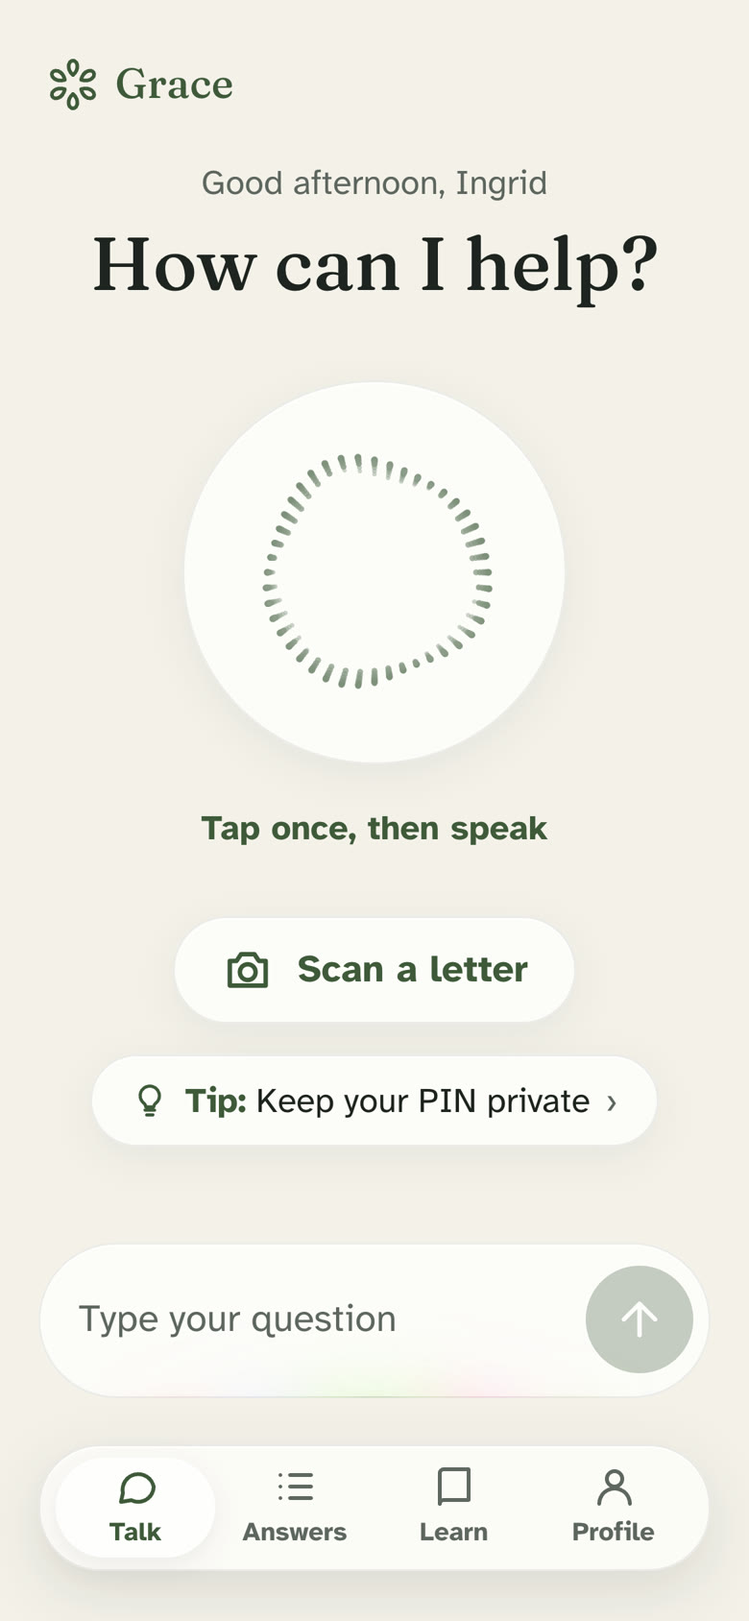
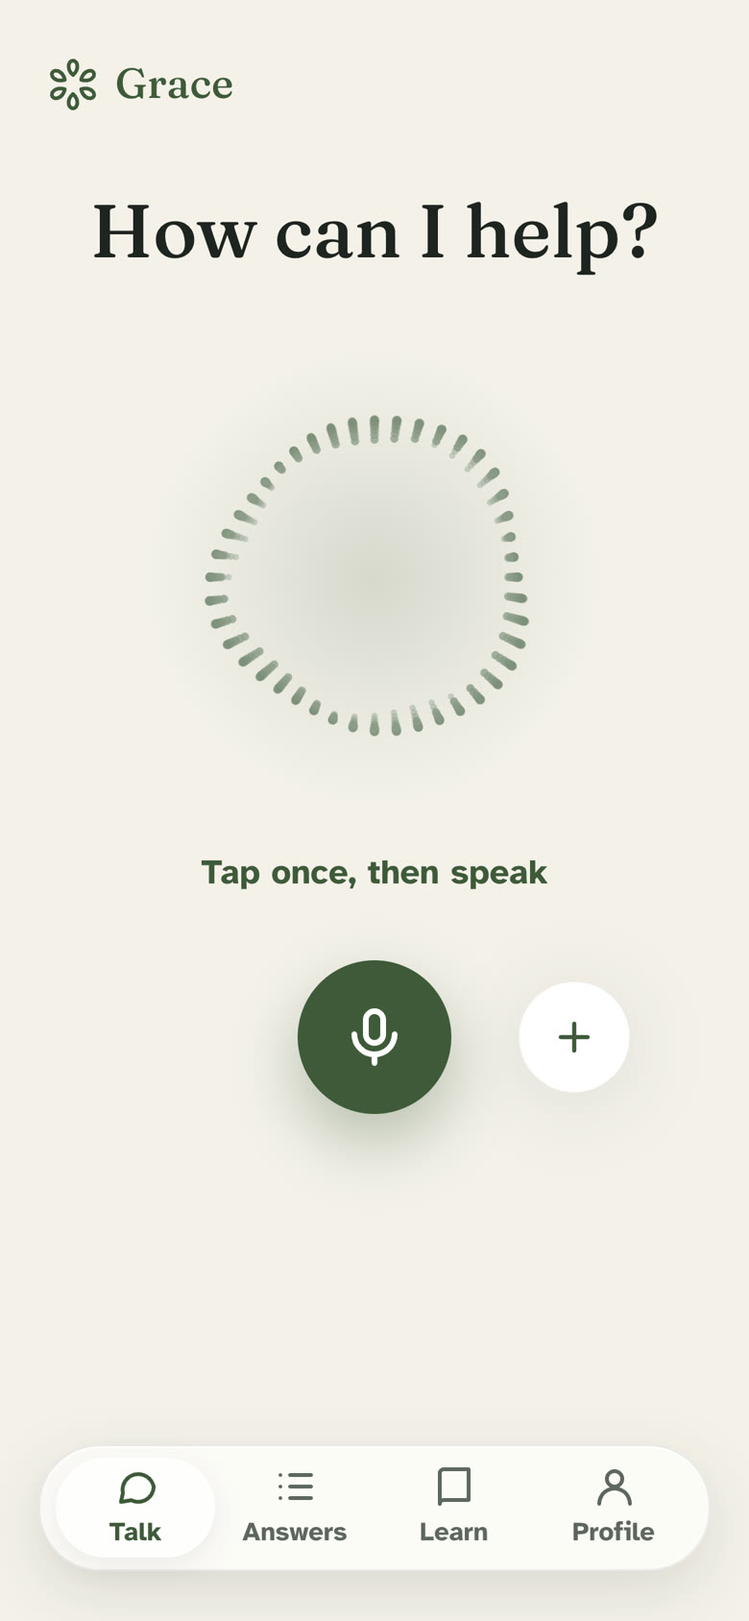
feat: iPhone 16 Pro style frame and the new listening screens in the demo video

diff --git a/video/landscape/index.html b/video/landscape/index.html
@@ -26,7 +26,7 @@
       <section id="kw1" class="clip scene" data-start="1.5" data-duration="1.5" data-track-index="1"><div class="center"><p class="kin"><span class="k ink">Ask</span> <span class="k grad-t">out</span> <span class="k grad-t">loud</span></p></div></section>
       <section id="kw2" class="clip scene" data-start="3" data-duration="1.5" data-track-index="1"><div class="center"><p class="kin"><span class="k ink">Any</span> <span class="k grad-t">message</span></p></div></section>
       <section id="kw3" class="clip scene" data-start="4.5" data-duration="1.5" data-track-index="1"><div class="center"><p class="kin"><span class="k grad-t">Instantly</span></p></div></section>
-      <section id="jt" class="clip scene" data-start="6" data-duration="2.5" data-track-index="1"><div class="split"><div class="cap"><p class="kin"><span class="k ink">Just</span> <span class="k grad-t">talk</span></p></div><div class="pw"><div class="phone" id="jt-phone"><img class="f0" src="../assets/shots/talk.jpg" alt="" /><div class="tap" style="left:50%;top:34%"><svg class="cursor" viewBox="0 0 32 32"><path d="M6 3l20 11-9 2.5L12 26z" fill="#1E2420" stroke="#fff" stroke-width="2" stroke-linejoin="round"/></svg><i class="ripple"></i></div></div></div></div></section>
+      <section id="jt" class="clip scene" data-start="6" data-duration="2.5" data-track-index="1"><div class="split"><div class="cap"><p class="kin"><span class="k ink">Just</span> <span class="k grad-t">talk</span></p></div><div class="pw"><div class="phone" id="jt-phone"><img class="f0" src="../assets/shots/talk.jpg" alt="" /><div class="tap" style="left:50%;top:64%"><svg class="cursor" viewBox="0 0 32 32"><path d="M6 3l20 11-9 2.5L12 26z" fill="#1E2420" stroke="#fff" stroke-width="2" stroke-linejoin="round"/></svg><i class="ripple"></i></div></div></div></div></section>
       <section id="tunnel" class="clip scene" data-start="8.5" data-duration="2.5" data-track-index="1"><div class="stage"><div class="walls"><div class="tphone" style="transform: translate(-50%, -50%) translate3d(-806.4px, 0, -200px) rotateY(70deg)"><img src="../assets/shots/talk.jpg" alt="" /></div><div class="tphone" style="transform: translate(-50%, -50%) translate3d(806.4px, 0, -700px) rotateY(-70deg)"><img src="../assets/shots/scam-card.jpg" alt="" /></div><div class="tphone" style="transform: translate(-50%, -50%) translate3d(0, -496.8px, -450px) rotateX(-70deg) rotateZ(90deg)"><img src="../assets/shots/scan-found.jpg" alt="" /></div><div class="tphone" style="transform: translate(-50%, -50%) translate3d(0, 496.8px, -950px) rotateX(70deg) rotateZ(90deg)"><img src="../assets/shots/learn.jpg" alt="" /></div><div class="tphone" style="transform: translate(-50%, -50%) translate3d(-806.4px, 0, -1100px) rotateY(70deg)"><img src="../assets/shots/tell-anna.jpg" alt="" /></div><div class="tphone" style="transform: translate(-50%, -50%) translate3d(806.4px, 0, -1600px) rotateY(-70deg)"><img src="../assets/shots/voice.jpg" alt="" /></div><div class="tphone" style="transform: translate(-50%, -50%) translate3d(0, -496.8px, -1350px) rotateX(-70deg) rotateZ(90deg)"><img src="../assets/shots/listen.jpg" alt="" /></div><div class="tphone" style="transform: translate(-50%, -50%) translate3d(0, 496.8px, -1850px) rotateX(70deg) rotateZ(90deg)"><img src="../assets/shots/skills.jpg" alt="" /></div></div></div><div class="center over"><p class="kin small"><span class="k ink">Letters.</span> <span class="k grad-t">Scams.</span> <span class="k ink">Doctors.</span></p></div></section>
       <section id="swoosh" class="clip scene" data-start="10.3" data-duration="1.7" data-track-index="1"><div class="blob"></div></section>
       <section id="prog" class="clip scene" data-start="12" data-duration="3" data-track-index="1"><div class="center"><div class="row"><p class="plabel">Checking the message</p><p class="pscore"><span class="num">0</span><span class="of">/100</span></p><div class="bar"><div class="fill"></div></div><p class="pnote">Scam check</p></div></div></section>
@@ -37,7 +37,7 @@
       <section id="pat" class="clip scene" data-start="27.5" data-duration="2.5" data-track-index="1"><div class="center"><p class="kin"><span class="k ink">Patient</span> <span class="k grad-t">with</span> <span class="k grad-t">you</span></p></div></section>
       <section id="watch" class="clip scene" data-start="30" data-duration="3" data-track-index="1"><div class="center"><p class="kin"><span class="k ink">Now</span> <span class="k grad-t">watch</span> <span class="k grad-t">it</span> <span class="k grad-t">work</span></p><p class="sub">Real app. Real Claude answers.</p></div></section>
       <section id="ts0" class="clip scene" data-start="33" data-duration="5.5" data-track-index="1"><div class="split test"><div class="cap"><p class="kick">Live test</p><p class="ttl">A calm welcome</p></div><div class="pw"><div class="phone"><img class="f0" src="../assets/shots/welcome.jpg" alt="" /><img class="f1" src="../assets/shots/talk.jpg" alt="" /><div class="tap" style="left:50%;top:88%"><svg class="cursor" viewBox="0 0 32 32"><path d="M6 3l20 11-9 2.5L12 26z" fill="#1E2420" stroke="#fff" stroke-width="2" stroke-linejoin="round"/></svg><i class="ripple"></i></div></div></div></div></section>
-      <section id="ts1" class="clip scene" data-start="38.5" data-duration="5.5" data-track-index="1"><div class="split test"><div class="cap"><p class="kick">Talk</p><p class="ttl">One big button</p></div><div class="pw"><div class="phone"><img class="f0" src="../assets/shots/talk.jpg" alt="" /><div class="tap" style="left:50%;top:34%"><svg class="cursor" viewBox="0 0 32 32"><path d="M6 3l20 11-9 2.5L12 26z" fill="#1E2420" stroke="#fff" stroke-width="2" stroke-linejoin="round"/></svg><i class="ripple"></i></div></div></div></div></section>
+      <section id="ts1" class="clip scene" data-start="38.5" data-duration="5.5" data-track-index="1"><div class="split test"><div class="cap"><p class="kick">Talk</p><p class="ttl">One big button</p></div><div class="pw"><div class="phone"><img class="f0" src="../assets/shots/talk.jpg" alt="" /><img class="f1" src="../assets/shots/talk-listening.jpg" alt="" /><div class="tap" style="left:50%;top:64%"><svg class="cursor" viewBox="0 0 32 32"><path d="M6 3l20 11-9 2.5L12 26z" fill="#1E2420" stroke="#fff" stroke-width="2" stroke-linejoin="round"/></svg><i class="ripple"></i></div></div></div></div></section>
       <section id="ts2" class="clip scene" data-start="44" data-duration="5.5" data-track-index="1"><div class="split test"><div class="cap"><p class="kick">Ask</p><p class="ttl">Is this text real?</p></div><div class="pw"><div class="phone"><img class="f0" src="../assets/shots/typed.jpg" alt="" /><div class="tap" style="left:88%;top:79%"><svg class="cursor" viewBox="0 0 32 32"><path d="M6 3l20 11-9 2.5L12 26z" fill="#1E2420" stroke="#fff" stroke-width="2" stroke-linejoin="round"/></svg><i class="ripple"></i></div></div></div></div></section>
       <section id="ts3" class="clip scene" data-start="49.5" data-duration="5.5" data-track-index="1"><div class="split test"><div class="cap"><p class="kick">Real Claude answer</p><p class="ttl">Checking the text</p></div><div class="pw"><div class="phone"><img class="f0" src="../assets/shots/typed.jpg" alt="" /><img class="f1" src="../assets/shots/scam-steps.jpg" alt="" /></div></div></div></section>
       <section id="ts4" class="clip scene" data-start="55" data-duration="5.5" data-track-index="1"><div class="split test"><div class="cap"><p class="kick">Answers</p><p class="ttl">Scam alert</p></div><div class="pw"><div class="phone"><img class="f0" src="../assets/shots/scam-card.jpg" alt="" /></div></div></div></section>
@@ -46,7 +46,7 @@
       <section id="ts7" class="clip scene" data-start="71.5" data-duration="5.5" data-track-index="1"><div class="split test"><div class="cap"><p class="kick">Explained</p><p class="ttl">Key facts, plain words</p></div><div class="pw"><div class="phone"><img class="f0" src="../assets/shots/scan-found.jpg" alt="" /><img class="f1" src="../assets/shots/scan-explained.jpg" alt="" /></div></div></div></section>
       <section id="ts8" class="clip scene" data-start="77" data-duration="5.5" data-track-index="1"><div class="split test"><div class="cap"><p class="kick">Pay safely</p><p class="ttl">QR code checked</p></div><div class="pw"><div class="phone"><img class="f0" src="../assets/shots/qr-found.jpg" alt="" /><img class="f1" src="../assets/shots/qr-explained.jpg" alt="" /></div></div></div></section>
       <section id="ts9" class="clip scene" data-start="82.5" data-duration="5.5" data-track-index="1"><div class="split test"><div class="cap"><p class="kick">Learn</p><p class="ttl">One AI skill each time</p></div><div class="pw"><div class="phone"><img class="f0" src="../assets/shots/learn.jpg" alt="" /><img class="f1" src="../assets/shots/skills.jpg" alt="" /></div></div></div></section>
-      <section id="ts10" class="clip scene" data-start="88" data-duration="5.5" data-track-index="1"><div class="split test"><div class="cap"><p class="kick">Doctor visit</p><p class="ttl">Listen for me</p></div><div class="pw"><div class="phone"><img class="f0" src="../assets/shots/listen.jpg" alt="" /><div class="tap" style="left:50%;top:52%"><svg class="cursor" viewBox="0 0 32 32"><path d="M6 3l20 11-9 2.5L12 26z" fill="#1E2420" stroke="#fff" stroke-width="2" stroke-linejoin="round"/></svg><i class="ripple"></i></div></div></div></div></section>
+      <section id="ts10" class="clip scene" data-start="88" data-duration="5.5" data-track-index="1"><div class="split test"><div class="cap"><p class="kick">Doctor visit</p><p class="ttl">Listen for me</p></div><div class="pw"><div class="phone"><img class="f0" src="../assets/shots/listen.jpg" alt="" /><img class="f1" src="../assets/shots/listen-writing.jpg" alt="" /><div class="tap" style="left:50%;top:70%"><svg class="cursor" viewBox="0 0 32 32"><path d="M6 3l20 11-9 2.5L12 26z" fill="#1E2420" stroke="#fff" stroke-width="2" stroke-linejoin="round"/></svg><i class="ripple"></i></div></div></div></div></section>
       <section id="ts11" class="clip scene" data-start="93.5" data-duration="5.5" data-track-index="1"><div class="split test"><div class="cap"><p class="kick">Profile</p><p class="ttl">Your own assistant</p></div><div class="pw"><div class="phone"><img class="f0" src="../assets/shots/voice.jpg" alt="" /><img class="f1" src="../assets/shots/text-xl.jpg" alt="" /><div class="tap" style="left:80%;top:40%"><svg class="cursor" viewBox="0 0 32 32"><path d="M6 3l20 11-9 2.5L12 26z" fill="#1E2420" stroke="#fff" stroke-width="2" stroke-linejoin="round"/></svg><i class="ripple"></i></div></div></div></div></section>
       <section id="outro" class="clip scene" data-start="99" data-duration="6" data-track-index="1"><div class="center"><p class="kin tag"><span class="k ink">Grace.</span> <span class="k ink">AI</span> <span class="k ink">that</span> <span class="k ink">is</span> <span class="k grad-t">patient</span> <span class="k ink">with</span> <span class="k ink">you.</span></p><div class="lockup"><img class="logo" src="../assets/grace-logo.svg" alt="" /><div><p class="wm">Grace</p><p class="url">graceapp.vercel.app</p></div></div></div></section>
       <audio id="music" src="../assets/promo-music.m4a" data-start="0" data-duration="105" data-track-index="2" data-volume="1"></audio>
@@ -130,6 +130,7 @@
       tl.fromTo("#ts1 .phone", {y: 120, rotateY: 18, rotateX: 10, scale: 0.92, opacity: 0, transformPerspective: 1800}, {y: 0, rotateY: 6, rotateX: 3, scale: 1, opacity: 1, duration: 0.6, ease: "power3.out"}, 38.55);
       tl.to("#ts1 .phone", {rotateY: -3, rotateX: 0, duration: 4.7, ease: "sine.inOut"}, 39.15);
       tl.fromTo("#ts1 .cap > *", {opacity: 0, y: 30}, {opacity: 1, y: 0, duration: 0.4, stagger: 0.12, ease: "power3.out"}, 38.7);
+      tl.fromTo("#ts1 .f1", {opacity: 0}, {opacity: 1, duration: 0.15}, 41.20);
       tl.fromTo("#ts1 .cursor", {x: 220, y: 260, opacity: 0}, {x: 0, y: 0, opacity: 1, duration: 0.6, ease: "power2.inOut"}, 39.45);
       tl.fromTo("#ts1 .ripple", {scale: 0, opacity: 0.7}, {scale: 2.6, opacity: 0, duration: 0.6, ease: "power2.out"}, 40.10);
       tl.fromTo("#ts2 .phone", {y: 120, rotateY: -18, rotateX: 10, scale: 0.92, opacity: 0, transformPerspective: 1800}, {y: 0, rotateY: -6, rotateX: 3, scale: 1, opacity: 1, duration: 0.6, ease: "power3.out"}, 44.05);
@@ -171,6 +172,7 @@
       tl.fromTo("#ts10 .phone", {y: 120, rotateY: -18, rotateX: 10, scale: 0.92, opacity: 0, transformPerspective: 1800}, {y: 0, rotateY: -6, rotateX: 3, scale: 1, opacity: 1, duration: 0.6, ease: "power3.out"}, 88.05);
       tl.to("#ts10 .phone", {rotateY: 3, rotateX: 0, duration: 4.7, ease: "sine.inOut"}, 88.65);
       tl.fromTo("#ts10 .cap > *", {opacity: 0, y: 30}, {opacity: 1, y: 0, duration: 0.4, stagger: 0.12, ease: "power3.out"}, 88.2);
+      tl.fromTo("#ts10 .f1", {opacity: 0}, {opacity: 1, duration: 0.15}, 90.70);
       tl.fromTo("#ts10 .cursor", {x: 220, y: 260, opacity: 0}, {x: 0, y: 0, opacity: 1, duration: 0.6, ease: "power2.inOut"}, 88.95);
       tl.fromTo("#ts10 .ripple", {scale: 0, opacity: 0.7}, {scale: 2.6, opacity: 0, duration: 0.6, ease: "power2.out"}, 89.60);
       tl.fromTo("#ts11 .phone", {y: 120, rotateY: 18, rotateX: 10, scale: 0.92, opacity: 0, transformPerspective: 1800}, {y: 0, rotateY: 6, rotateX: 3, scale: 1, opacity: 1, duration: 0.6, ease: "power3.out"}, 93.55);

diff --git a/video/index.html b/video/index.html
@@ -26,7 +26,7 @@
       <section id="kw1" class="clip scene" data-start="1.5" data-duration="1.5" data-track-index="1"><div class="center"><p class="kin"><span class="k ink">Ask</span> <span class="k grad-t">out</span> <span class="k grad-t">loud</span></p></div></section>
       <section id="kw2" class="clip scene" data-start="3" data-duration="1.5" data-track-index="1"><div class="center"><p class="kin"><span class="k ink">Any</span> <span class="k grad-t">message</span></p></div></section>
       <section id="kw3" class="clip scene" data-start="4.5" data-duration="1.5" data-track-index="1"><div class="center"><p class="kin"><span class="k grad-t">Instantly</span></p></div></section>
-      <section id="jt" class="clip scene" data-start="6" data-duration="2.5" data-track-index="1"><div class="split"><div class="cap"><p class="kin"><span class="k ink">Just</span> <span class="k grad-t">talk</span></p></div><div class="pw"><div class="phone" id="jt-phone"><img class="f0" src="assets/shots/talk.jpg" alt="" /><div class="tap" style="left:50%;top:34%"><svg class="cursor" viewBox="0 0 32 32"><path d="M6 3l20 11-9 2.5L12 26z" fill="#1E2420" stroke="#fff" stroke-width="2" stroke-linejoin="round"/></svg><i class="ripple"></i></div></div></div></div></section>
+      <section id="jt" class="clip scene" data-start="6" data-duration="2.5" data-track-index="1"><div class="split"><div class="cap"><p class="kin"><span class="k ink">Just</span> <span class="k grad-t">talk</span></p></div><div class="pw"><div class="phone" id="jt-phone"><img class="f0" src="assets/shots/talk.jpg" alt="" /><div class="tap" style="left:50%;top:64%"><svg class="cursor" viewBox="0 0 32 32"><path d="M6 3l20 11-9 2.5L12 26z" fill="#1E2420" stroke="#fff" stroke-width="2" stroke-linejoin="round"/></svg><i class="ripple"></i></div></div></div></div></section>
       <section id="tunnel" class="clip scene" data-start="8.5" data-duration="2.5" data-track-index="1"><div class="stage"><div class="walls"><div class="tphone" style="transform: translate(-50%, -50%) translate3d(-453.59999999999997px, 0, -200px) rotateY(70deg)"><img src="assets/shots/talk.jpg" alt="" /></div><div class="tphone" style="transform: translate(-50%, -50%) translate3d(453.59999999999997px, 0, -700px) rotateY(-70deg)"><img src="assets/shots/scam-card.jpg" alt="" /></div><div class="tphone" style="transform: translate(-50%, -50%) translate3d(0, -883.2px, -450px) rotateX(-70deg) rotateZ(90deg)"><img src="assets/shots/scan-found.jpg" alt="" /></div><div class="tphone" style="transform: translate(-50%, -50%) translate3d(0, 883.2px, -950px) rotateX(70deg) rotateZ(90deg)"><img src="assets/shots/learn.jpg" alt="" /></div><div class="tphone" style="transform: translate(-50%, -50%) translate3d(-453.59999999999997px, 0, -1100px) rotateY(70deg)"><img src="assets/shots/tell-anna.jpg" alt="" /></div><div class="tphone" style="transform: translate(-50%, -50%) translate3d(453.59999999999997px, 0, -1600px) rotateY(-70deg)"><img src="assets/shots/voice.jpg" alt="" /></div><div class="tphone" style="transform: translate(-50%, -50%) translate3d(0, -883.2px, -1350px) rotateX(-70deg) rotateZ(90deg)"><img src="assets/shots/listen.jpg" alt="" /></div><div class="tphone" style="transform: translate(-50%, -50%) translate3d(0, 883.2px, -1850px) rotateX(70deg) rotateZ(90deg)"><img src="assets/shots/skills.jpg" alt="" /></div></div></div><div class="center over"><p class="kin small"><span class="k ink">Letters.</span> <span class="k grad-t">Scams.</span> <span class="k ink">Doctors.</span></p></div></section>
       <section id="swoosh" class="clip scene" data-start="10.3" data-duration="1.7" data-track-index="1"><div class="blob"></div></section>
       <section id="prog" class="clip scene" data-start="12" data-duration="3" data-track-index="1"><div class="center"><div class="row"><p class="plabel">Checking the message</p><p class="pscore"><span class="num">0</span><span class="of">/100</span></p><div class="bar"><div class="fill"></div></div><p class="pnote">Scam check</p></div></div></section>
@@ -37,7 +37,7 @@
       <section id="pat" class="clip scene" data-start="27.5" data-duration="2.5" data-track-index="1"><div class="center"><p class="kin"><span class="k ink">Patient</span> <span class="k grad-t">with</span> <span class="k grad-t">you</span></p></div></section>
       <section id="watch" class="clip scene" data-start="30" data-duration="3" data-track-index="1"><div class="center"><p class="kin"><span class="k ink">Now</span> <span class="k grad-t">watch</span> <span class="k grad-t">it</span> <span class="k grad-t">work</span></p><p class="sub">Real app. Real Claude answers.</p></div></section>
       <section id="ts0" class="clip scene" data-start="33" data-duration="5.5" data-track-index="1"><div class="split test"><div class="cap"><p class="kick">Live test</p><p class="ttl">A calm welcome</p></div><div class="pw"><div class="phone"><img class="f0" src="assets/shots/welcome.jpg" alt="" /><img class="f1" src="assets/shots/talk.jpg" alt="" /><div class="tap" style="left:50%;top:88%"><svg class="cursor" viewBox="0 0 32 32"><path d="M6 3l20 11-9 2.5L12 26z" fill="#1E2420" stroke="#fff" stroke-width="2" stroke-linejoin="round"/></svg><i class="ripple"></i></div></div></div></div></section>
-      <section id="ts1" class="clip scene" data-start="38.5" data-duration="5.5" data-track-index="1"><div class="split test"><div class="cap"><p class="kick">Talk</p><p class="ttl">One big button</p></div><div class="pw"><div class="phone"><img class="f0" src="assets/shots/talk.jpg" alt="" /><div class="tap" style="left:50%;top:34%"><svg class="cursor" viewBox="0 0 32 32"><path d="M6 3l20 11-9 2.5L12 26z" fill="#1E2420" stroke="#fff" stroke-width="2" stroke-linejoin="round"/></svg><i class="ripple"></i></div></div></div></div></section>
+      <section id="ts1" class="clip scene" data-start="38.5" data-duration="5.5" data-track-index="1"><div class="split test"><div class="cap"><p class="kick">Talk</p><p class="ttl">One big button</p></div><div class="pw"><div class="phone"><img class="f0" src="assets/shots/talk.jpg" alt="" /><img class="f1" src="assets/shots/talk-listening.jpg" alt="" /><div class="tap" style="left:50%;top:64%"><svg class="cursor" viewBox="0 0 32 32"><path d="M6 3l20 11-9 2.5L12 26z" fill="#1E2420" stroke="#fff" stroke-width="2" stroke-linejoin="round"/></svg><i class="ripple"></i></div></div></div></div></section>
       <section id="ts2" class="clip scene" data-start="44" data-duration="5.5" data-track-index="1"><div class="split test"><div class="cap"><p class="kick">Ask</p><p class="ttl">Is this text real?</p></div><div class="pw"><div class="phone"><img class="f0" src="assets/shots/typed.jpg" alt="" /><div class="tap" style="left:88%;top:79%"><svg class="cursor" viewBox="0 0 32 32"><path d="M6 3l20 11-9 2.5L12 26z" fill="#1E2420" stroke="#fff" stroke-width="2" stroke-linejoin="round"/></svg><i class="ripple"></i></div></div></div></div></section>
       <section id="ts3" class="clip scene" data-start="49.5" data-duration="5.5" data-track-index="1"><div class="split test"><div class="cap"><p class="kick">Real Claude answer</p><p class="ttl">Checking the text</p></div><div class="pw"><div class="phone"><img class="f0" src="assets/shots/typed.jpg" alt="" /><img class="f1" src="assets/shots/scam-steps.jpg" alt="" /></div></div></div></section>
       <section id="ts4" class="clip scene" data-start="55" data-duration="5.5" data-track-index="1"><div class="split test"><div class="cap"><p class="kick">Answers</p><p class="ttl">Scam alert</p></div><div class="pw"><div class="phone"><img class="f0" src="assets/shots/scam-card.jpg" alt="" /></div></div></div></section>
@@ -46,7 +46,7 @@
       <section id="ts7" class="clip scene" data-start="71.5" data-duration="5.5" data-track-index="1"><div class="split test"><div class="cap"><p class="kick">Explained</p><p class="ttl">Key facts, plain words</p></div><div class="pw"><div class="phone"><img class="f0" src="assets/shots/scan-found.jpg" alt="" /><img class="f1" src="assets/shots/scan-explained.jpg" alt="" /></div></div></div></section>
       <section id="ts8" class="clip scene" data-start="77" data-duration="5.5" data-track-index="1"><div class="split test"><div class="cap"><p class="kick">Pay safely</p><p class="ttl">QR code checked</p></div><div class="pw"><div class="phone"><img class="f0" src="assets/shots/qr-found.jpg" alt="" /><img class="f1" src="assets/shots/qr-explained.jpg" alt="" /></div></div></div></section>
       <section id="ts9" class="clip scene" data-start="82.5" data-duration="5.5" data-track-index="1"><div class="split test"><div class="cap"><p class="kick">Learn</p><p class="ttl">One AI skill each time</p></div><div class="pw"><div class="phone"><img class="f0" src="assets/shots/learn.jpg" alt="" /><img class="f1" src="assets/shots/skills.jpg" alt="" /></div></div></div></section>
-      <section id="ts10" class="clip scene" data-start="88" data-duration="5.5" data-track-index="1"><div class="split test"><div class="cap"><p class="kick">Doctor visit</p><p class="ttl">Listen for me</p></div><div class="pw"><div class="phone"><img class="f0" src="assets/shots/listen.jpg" alt="" /><div class="tap" style="left:50%;top:52%"><svg class="cursor" viewBox="0 0 32 32"><path d="M6 3l20 11-9 2.5L12 26z" fill="#1E2420" stroke="#fff" stroke-width="2" stroke-linejoin="round"/></svg><i class="ripple"></i></div></div></div></div></section>
+      <section id="ts10" class="clip scene" data-start="88" data-duration="5.5" data-track-index="1"><div class="split test"><div class="cap"><p class="kick">Doctor visit</p><p class="ttl">Listen for me</p></div><div class="pw"><div class="phone"><img class="f0" src="assets/shots/listen.jpg" alt="" /><img class="f1" src="assets/shots/listen-writing.jpg" alt="" /><div class="tap" style="left:50%;top:70%"><svg class="cursor" viewBox="0 0 32 32"><path d="M6 3l20 11-9 2.5L12 26z" fill="#1E2420" stroke="#fff" stroke-width="2" stroke-linejoin="round"/></svg><i class="ripple"></i></div></div></div></div></section>
       <section id="ts11" class="clip scene" data-start="93.5" data-duration="5.5" data-track-index="1"><div class="split test"><div class="cap"><p class="kick">Profile</p><p class="ttl">Your own assistant</p></div><div class="pw"><div class="phone"><img class="f0" src="assets/shots/voice.jpg" alt="" /><img class="f1" src="assets/shots/text-xl.jpg" alt="" /><div class="tap" style="left:80%;top:40%"><svg class="cursor" viewBox="0 0 32 32"><path d="M6 3l20 11-9 2.5L12 26z" fill="#1E2420" stroke="#fff" stroke-width="2" stroke-linejoin="round"/></svg><i class="ripple"></i></div></div></div></div></section>
       <section id="outro" class="clip scene" data-start="99" data-duration="6" data-track-index="1"><div class="center"><p class="kin tag"><span class="k ink">Grace.</span> <span class="k ink">AI</span> <span class="k ink">that</span> <span class="k ink">is</span> <span class="k grad-t">patient</span> <span class="k ink">with</span> <span class="k ink">you.</span></p><div class="lockup"><img class="logo" src="assets/grace-logo.svg" alt="" /><div><p class="wm">Grace</p><p class="url">graceapp.vercel.app</p></div></div></div></section>
       <audio id="music" src="assets/promo-music.m4a" data-start="0" data-duration="105" data-track-index="2" data-volume="1"></audio>
@@ -130,6 +130,7 @@
       tl.fromTo("#ts1 .phone", {y: 120, rotateY: 18, rotateX: 10, scale: 0.92, opacity: 0, transformPerspective: 1800}, {y: 0, rotateY: 6, rotateX: 3, scale: 1, opacity: 1, duration: 0.6, ease: "power3.out"}, 38.55);
       tl.to("#ts1 .phone", {rotateY: -3, rotateX: 0, duration: 4.7, ease: "sine.inOut"}, 39.15);
       tl.fromTo("#ts1 .cap > *", {opacity: 0, y: 30}, {opacity: 1, y: 0, duration: 0.4, stagger: 0.12, ease: "power3.out"}, 38.7);
+      tl.fromTo("#ts1 .f1", {opacity: 0}, {opacity: 1, duration: 0.15}, 41.20);
       tl.fromTo("#ts1 .cursor", {x: 220, y: 260, opacity: 0}, {x: 0, y: 0, opacity: 1, duration: 0.6, ease: "power2.inOut"}, 39.45);
       tl.fromTo("#ts1 .ripple", {scale: 0, opacity: 0.7}, {scale: 2.6, opacity: 0, duration: 0.6, ease: "power2.out"}, 40.10);
       tl.fromTo("#ts2 .phone", {y: 120, rotateY: -18, rotateX: 10, scale: 0.92, opacity: 0, transformPerspective: 1800}, {y: 0, rotateY: -6, rotateX: 3, scale: 1, opacity: 1, duration: 0.6, ease: "power3.out"}, 44.05);
@@ -171,6 +172,7 @@
       tl.fromTo("#ts10 .phone", {y: 120, rotateY: -18, rotateX: 10, scale: 0.92, opacity: 0, transformPerspective: 1800}, {y: 0, rotateY: -6, rotateX: 3, scale: 1, opacity: 1, duration: 0.6, ease: "power3.out"}, 88.05);
       tl.to("#ts10 .phone", {rotateY: 3, rotateX: 0, duration: 4.7, ease: "sine.inOut"}, 88.65);
       tl.fromTo("#ts10 .cap > *", {opacity: 0, y: 30}, {opacity: 1, y: 0, duration: 0.4, stagger: 0.12, ease: "power3.out"}, 88.2);
+      tl.fromTo("#ts10 .f1", {opacity: 0}, {opacity: 1, duration: 0.15}, 90.70);
       tl.fromTo("#ts10 .cursor", {x: 220, y: 260, opacity: 0}, {x: 0, y: 0, opacity: 1, duration: 0.6, ease: "power2.inOut"}, 88.95);
       tl.fromTo("#ts10 .ripple", {scale: 0, opacity: 0.7}, {scale: 2.6, opacity: 0, duration: 0.6, ease: "power2.out"}, 89.60);
       tl.fromTo("#ts11 .phone", {y: 120, rotateY: 18, rotateX: 10, scale: 0.92, opacity: 0, transformPerspective: 1800}, {y: 0, rotateY: 6, rotateX: 3, scale: 1, opacity: 1, duration: 0.6, ease: "power3.out"}, 93.55);

diff --git a/video/style.css b/video/style.css
@@ -44,8 +44,12 @@ html, body { margin: 0; overflow: hidden; background: var(--bg); }
 .ttl { font-weight: 400; letter-spacing: -0.03em; line-height: 1.05; }
 
 .pw { position: relative; }
-.phone { position: relative; aspect-ratio: 1170 / 2532; border: 14px solid var(--ink); border-radius: 64px; overflow: hidden; background: var(--bg); box-sizing: content-box; box-shadow: 0 60px 120px rgba(30, 36, 32, 0.2), 0 16px 40px rgba(30, 36, 32, 0.12); }
-.phone img { position: absolute; inset: 0; width: 100%; height: 100%; object-fit: cover; }
+/* iPhone 16 Pro style frame: black bezel, titanium rim, Dynamic Island, glass reflection. */
+.phone { position: relative; aspect-ratio: 1170 / 2532; border: 13px solid #0d0d0f; border-radius: 68px; overflow: hidden; background: #f4f1ea; box-sizing: content-box;
+  box-shadow: 0 0 0 3px #c9cbce, 0 0 0 5px #8e9196, 0 0 0 6px #5d6064, 0 60px 120px rgba(30, 36, 32, 0.22), 0 16px 40px rgba(30, 36, 32, 0.14); }
+.phone::before { content: ""; position: absolute; top: 1.3%; left: 50%; width: 31%; height: 3.9%; transform: translateX(-50%); border-radius: 999px; background: #050506; z-index: 5; }
+.phone::after { content: ""; position: absolute; inset: 0; z-index: 4; pointer-events: none; background: linear-gradient(118deg, rgba(255, 255, 255, 0.22) 0%, rgba(255, 255, 255, 0.05) 32%, rgba(255, 255, 255, 0) 33%); }
+.phone img { position: absolute; left: 0; top: 6%; width: 100%; height: 94%; object-fit: cover; object-position: top; }
 .phone img:not(.f0) { opacity: 0; }
 .portrait .test .phone { width: 520px; }
 .tap { position: absolute; width: 0; height: 0; z-index: 3; }
